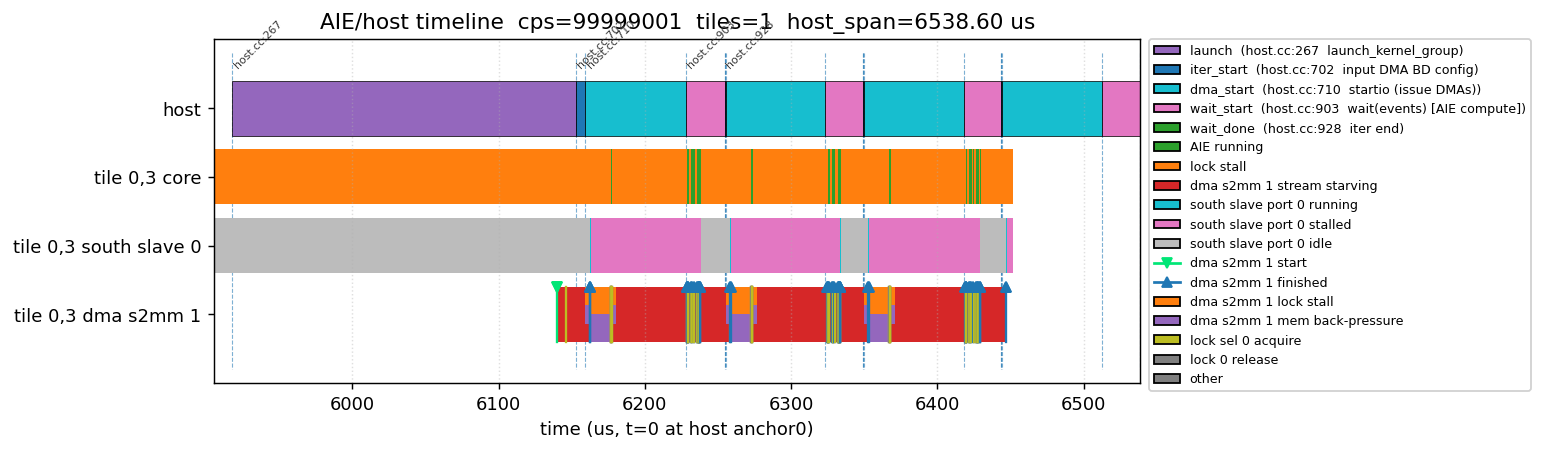
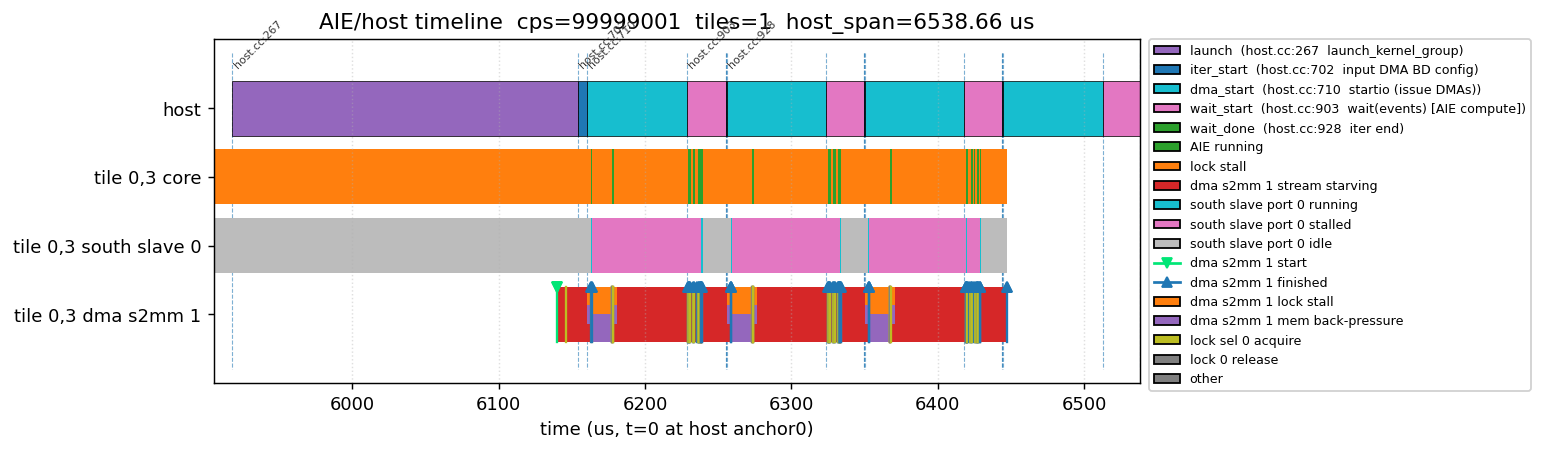
some change

diff --git a/src/mlir/mlirfront/tilinglinalg/pass/passdfscheduletoapi/passdfscheduletoapi.cpp b/src/mlir/mlirfront/tilinglinalg/pass/passdfscheduletoapi/passdfscheduletoapi.cpp
@@ -184,13 +184,6 @@ struct ConversionState {
     bool enableDebug = false;
     int runtimeDebugLevel = -1;
 
-    // Set from module attr routing.kernel_config_offload. When true, the host does
-    // NOT program core-tile DMA (BD, lock init, create_io, channel start); the AIE
-    // core self-configures its own DMA via raw MMIO from kernel.cc instead. The
-    // entire core-tile host DMA chain is removed in a pre-conversion walk so shim
-    // BDs and the kernel-group launch stay intact.
-    bool kernelConfigOffload = false;
-
     // Cached values for inner patterns (set before applying inner patterns)
     Value devInstRef;
     Value cacheableConst;
@@ -3182,129 +3175,6 @@ static void setupTypeConverter(TypeConverter &typeConverter, MLIRContext *ctx) {
 }
 
 //===----------------------------------------------------------------------===//
-// KERNELCONFIGOFFLOAD: remove the core-tile host DMA chain
-//===----------------------------------------------------------------------===//
-
-// Core tiles begin at this row on the AIE2PS partition (row 0 = shim,
-// row 1 = memtile). Only core-tile DMA is offloaded into kernel.cc; shim and
-// memtile BDs stay host-side. Matches passgroupregwrite.cpp::kCoreRowMin.
-static constexpr int kOffloadCoreRowMin = 2;
-
-// Trace a start_io -> its create_io -> DeclareTileOp and report the target row
-// (-1 if it cannot be resolved). Used to classify the DMA chain as core vs
-// shim/memtile.
-static int offloadStartIoRow(dfschedule::StartIoOp s) {
-    auto io = s.getIoHandle().getDefiningOp<dfschedule::ConfigCreateIoOp>();
-    if (!io)
-        return -1;
-    auto td = io.getTile().getDefiningOp<dfschedule::DeclareTileOp>();
-    if (!td)
-        return -1;
-    return td.getRow();
-}
-
-// True iff a start_io's create_io programs an S2MM (incoming) DMA. Only the
-// S2MM core chain is offloaded to kernel.cc; MM2S (outgoing) stays host-side
-// because it needs a per-(col,row) out-of-order BD id and no runtime core
-// tile-position intrinsic exists yet.
-static bool offloadStartIoIsS2MM(dfschedule::StartIoOp s) {
-    auto io = s.getIoHandle().getDefiningOp<dfschedule::ConfigCreateIoOp>();
-    return io && io.getDirection() == "S2MM";
-}
-
-// When #pragma KERNELCONFIGOFFLOAD is on, the AIE core self-programs its own
-// INCOMING (S2MM) DMA (BDs, lock inits, channel start) from kernel.cc via raw
-// MMIO. This removes ONLY the S2MM host-side dfschedule chain for CORE tiles
-// (row >= kOffloadCoreRowMin) BEFORE lowering, so that ConfigDmaBdInnerPattern
-// (which also emits the core-tile XAie_LockSetValue) never runs for them. The
-// MM2S (outgoing) core chain stays host-side (deferred: it needs a per-(col,row)
-// out-of-order BD id with no runtime core tile-position intrinsic yet). Shim
-// BDs, memtile BDs, MM2S core BDs, and the kernel-group launch are untouched.
-//
-// The per-core-tile S2MM chain is: config.dma_bd (ping+pong) -> config.create_io
-// -> schedule.start_io, whose event feeds a schedule.wait. Removal order:
-//   1. Collect only S2MM core-tile start_io (offloadStartIoIsS2MM).
-//   2. Rebuild each schedule.wait without those start_io events (keeps MM2S).
-//   3. Erase the S2MM start_io (+ any now-dead getbdid feeding its bd_id).
-//   4. Erase the S2MM create_io.
-//   5. Fixpoint-erase now-dead core-tile config.dma_bd; the use_empty() guard
-//      leaves MM2S ping/pong BDs (still fed to their kept MM2S create_io) intact.
-static void removeCoreTileHostDmaChain(ModuleOp moduleOp) {
-    // 1. Collect core-tile start_io ops and their event Values.
-    SmallVector<dfschedule::StartIoOp, 8> coreStarts;
-    llvm::DenseSet<Value> coreEvents;
-    moduleOp.walk([&](dfschedule::StartIoOp s) {
-        if (offloadStartIoRow(s) >= kOffloadCoreRowMin && offloadStartIoIsS2MM(s)) {
-            coreStarts.push_back(s);
-            coreEvents.insert(s.getResult());
-        }
-    });
-    if (coreStarts.empty())
-        return;
-
-    // 2. Rebuild schedule.wait ops without the core-tile events.
-    SmallVector<dfschedule::ScheduleWaitOp, 4> waits;
-    moduleOp.walk([&](dfschedule::ScheduleWaitOp w) { waits.push_back(w); });
-    for (auto w : waits) {
-        SmallVector<Value, 8> keep;
-        bool changed = false;
-        for (Value e : w.getEvents()) {
-            if (coreEvents.count(e)) {
-                changed = true;
-                continue;
-            }
-            keep.push_back(e);
-        }
-        if (changed) {
-            OpBuilder b(w);
-            b.create<dfschedule::ScheduleWaitOp>(w.getLoc(), keep);
-            w.erase();
-        }
-    }
-
-    // 3. Erase core-tile start_io (+ dead getbdid feeding its bd_id) and collect
-    //    the create_io / dma_bd producers for subsequent removal.
-    SmallVector<dfschedule::ConfigCreateIoOp, 8> coreIos;
-    for (auto s : coreStarts) {
-        Value bdIdV = s.getBdId();
-        if (auto io = s.getIoHandle().getDefiningOp<dfschedule::ConfigCreateIoOp>())
-            coreIos.push_back(io);
-        s.erase();
-        if (bdIdV)
-            if (auto *def = bdIdV.getDefiningOp())
-                if (isa<dfschedule::GetBdIdOp>(def) && def->use_empty())
-                    def->erase();
-    }
-
-    // 4. Erase core-tile create_io (its config.dma_bd producers go dead).
-    for (auto io : coreIos) {
-        if (io->use_empty())
-            io.erase();
-    }
-
-    // 5. Fixpoint-erase every core-tile config.dma_bd (the ping/pong linked_bd
-    //    chain unravels once create_io is gone). Collected via a single walk so
-    //    each op appears once (no dangling double-erase).
-    SmallVector<dfschedule::ConfigDmaBdOp, 16> coreBds;
-    moduleOp.walk([&](dfschedule::ConfigDmaBdOp bd) {
-        if (auto td = bd.getTile().getDefiningOp<dfschedule::DeclareTileOp>())
-            if (td.getRow() >= kOffloadCoreRowMin)
-                coreBds.push_back(bd);
-    });
-    bool progressed = true;
-    while (progressed) {
-        progressed = false;
-        for (auto &bd : coreBds) {
-            if (bd && bd->use_empty()) {
-                bd.erase();
-                bd = nullptr;
-                progressed = true;
-            }
-        }
-    }
-}
-
-//===----------------------------------------------------------------------===//
 // Pass Implementation - Two-Phase Conversion with Walk + Patterns
 //===----------------------------------------------------------------------===//
 
@@ -3336,16 +3206,9 @@ void DfscheduleToApiPass::runOnOperation() {
                      << " folded lock-init triples (control-packet grouped)\n";
     }
 
-    // KERNELCONFIGOFFLOAD: when on, the AIE core self-programs its own DMA from
-    // kernel.cc (raw MMIO). Remove the core-tile host DMA chain (BD, lock init,
-    // create_io, channel start) BEFORE lowering so those host calls are never
-    // emitted; shim/memtile BDs and the kernel-group launch stay host-side.
-    if (auto a = moduleOp->getAttrOfType<IntegerAttr>("routing.kernel_config_offload"))
-        state.kernelConfigOffload = a.getInt() != 0;
-    if (state.kernelConfigOffload) {
-        llvm::errs() << "[Pass] KERNELCONFIGOFFLOAD on: removing core-tile host DMA chain\n";
-        removeCoreTileHostDmaChain(moduleOp);
-    }
+    // KERNELCONFIGOFFLOAD: the S2MM core-tile host DMA chain is now suppressed at
+    // generation time (BlueprintToSchedulePass::emitCoreBufferDma skips it when
+    // routing.kernel_config_offload is set), so no host-side removal is needed here.
 
     // Precompute the control-fabric C variable name for each ctrl_plan_init and
     // for the group_reg_writes that consume it, so their lowering order is

diff --git a/src/mlir/mlirfront/tilinglinalg/pass/passblueprinttoschedule/helper/flowtransfer_kernel.cpp b/src/mlir/mlirfront/tilinglinalg/pass/passblueprinttoschedule/helper/flowtransfer_kernel.cpp
@@ -527,30 +527,44 @@ LogicalResult FlowTransferConversion::emitCoreBufferDma(FlowLoweringCtx &c, Core
                         t.coreOooBdId = c.shimPerTileBdIds[idx];
                 }
 
-                if (t.ppDepth == 1) {
-                    emitCoreSingleBufferBd(c, t);
-                } else {
-                    emitCorePingPongBd(c, t);
-                }
+                // KERNELCONFIGOFFLOAD: when on, the AIE core self-programs its own
+                // incoming (S2MM) DMA — BD chain, lock inits, channel start — from
+                // kernel.cc via raw MMIO (passdfscheduletokernelapi emitS2mmConfigBlock).
+                // So the host must NOT emit the S2MM core-tile DMA chain. Skip the BD +
+                // create_io + deferred start_io for INPUT (S2MM) core tiles (row >=
+                // kOffloadCoreRowMin, excluding memtiles). MM2S (output) core BDs stay
+                // host-side — deferred, no core-position intrinsic yet. Lock inits ride
+                // on the ConfigDmaBdOp, so skipping the BD also drops them.
+                constexpr int64_t kOffloadCoreRowMin = 2;
+                bool offloadSkipS2mm =
+                    passState && passState->kernelConfigOffload && c.isInput && t.row >= kOffloadCoreRowMin;
+                if (!offloadSkipS2mm) {
+                    if (t.ppDepth == 1) {
+                        emitCoreSingleBufferBd(c, t);
+                    } else {
+                        emitCorePingPongBd(c, t);
+                    }
 
-                // Create IO handle for core tile
-                auto coreCreateIoOp = rewriter.create<dfschedule::ConfigCreateIoOp>(
-                    loc, dfschedule::IoHandleType::get(rewriter.getContext()), t.firstCoreBdHandle,
-                    t.coreTileOp.getTile(), rewriter.getI32IntegerAttr(c.coreChannel),
-                    rewriter.getStringAttr(c.coreDmaDirection), rewriter.getStringAttr(c.coreIoOperation),
-                    rewriter.getBoolAttr(false)); // enable_out_of_order=false for core tiles
-                auto coreBdIdOp =
-                    rewriter.create<dfschedule::GetBdIdOp>(loc, rewriter.getI32Type(), t.coreTileOp.getTile());
-                // Defer core StartIoOp until after ELF is loaded (LoadKernelGroup)
-                // to prevent BSS initialization from overwriting DMA data.
-                // Core tiles use ping-pong BD chaining (next_bd links ping↔pong),
-                // so the DMA hardware automatically re-arms via the chain.
-                // repeat=1 is sufficient; the BD chain does the work.
-                int32_t coreRepeat = 1;
-                llvm::errs() << "[DeferredStartIo] PUSH deferredCoreStartIos flowIdx=" << c.flowIndex
-                             << " tileIdx=" << c.tileIndex << " total=" << (c.deferredCoreStartIos.size() + 1) << "\n";
-                c.deferredCoreStartIos.push_back(
-                    {coreCreateIoOp.getIoHandle(), coreBdIdOp.getBdId(), c.flowIndex, coreRepeat});
+                    // Create IO handle for core tile
+                    auto coreCreateIoOp = rewriter.create<dfschedule::ConfigCreateIoOp>(
+                        loc, dfschedule::IoHandleType::get(rewriter.getContext()), t.firstCoreBdHandle,
+                        t.coreTileOp.getTile(), rewriter.getI32IntegerAttr(c.coreChannel),
+                        rewriter.getStringAttr(c.coreDmaDirection), rewriter.getStringAttr(c.coreIoOperation),
+                        rewriter.getBoolAttr(false)); // enable_out_of_order=false for core tiles
+                    auto coreBdIdOp =
+                        rewriter.create<dfschedule::GetBdIdOp>(loc, rewriter.getI32Type(), t.coreTileOp.getTile());
+                    // Defer core StartIoOp until after ELF is loaded (LoadKernelGroup)
+                    // to prevent BSS initialization from overwriting DMA data.
+                    // Core tiles use ping-pong BD chaining (next_bd links ping↔pong),
+                    // so the DMA hardware automatically re-arms via the chain.
+                    // repeat=1 is sufficient; the BD chain does the work.
+                    int32_t coreRepeat = 1;
+                    llvm::errs() << "[DeferredStartIo] PUSH deferredCoreStartIos flowIdx=" << c.flowIndex
+                                 << " tileIdx=" << c.tileIndex << " total=" << (c.deferredCoreStartIos.size() + 1)
+                                 << "\n";
+                    c.deferredCoreStartIos.push_back(
+                        {coreCreateIoOp.getIoHandle(), coreBdIdOp.getBdId(), c.flowIndex, coreRepeat});
+                }
             } // end if (passState && ...)
         }
     }

diff --git a/src/mlir/mlirfront/tilinglinalg/pass/passblueprinttoschedule/passblueprinttoschedule.cpp b/src/mlir/mlirfront/tilinglinalg/pass/passblueprinttoschedule/passblueprinttoschedule.cpp
@@ -274,6 +274,11 @@ void BlueprintToSchedulePass::runOnOperation() {
                 auto attr = moduleOp->getAttrOfType<IntegerAttr>(name);
                 return attr ? attr.getInt() : 0;
             };
+            // KERNELCONFIGOFFLOAD: when the core self-programs its incoming S2MM
+            // DMA from kernel.cc, emitCoreBufferDma must skip the host S2MM core
+            // DMA chain (see BlueprintPassState::kernelConfigOffload).
+            passState->kernelConfigOffload = getI64("routing.kernel_config_offload") != 0;
+
             // Flat module attrs are the fallback source.
             passState->tileM = getI64("routing.tile_m");
             passState->tileRows = getI64("routing.tile_rows");

diff --git a/src/mlir/mlirfront/tilinglinalg/pass/passblueprinttoschedule/helper/flowtransfer_internal.h b/src/mlir/mlirfront/tilinglinalg/pass/passblueprinttoschedule/helper/flowtransfer_internal.h
@@ -74,6 +74,11 @@ struct BlueprintPassState {
     // partitiontensor op during conversion. Empty for conv, mirroring the old
     // !isFullConnectAuto Match/1/1 behavior.
     routing::GemmTilingScalars tilingScalars;
+    // KERNELCONFIGOFFLOAD (routing.kernel_config_offload): when set, the AIE core
+    // self-programs its own incoming (S2MM) DMA from kernel.cc via raw MMIO, so the
+    // host must NOT emit the S2MM core-tile DMA chain. emitCoreBufferDma reads this
+    // to skip the S2MM BD + create_io + start_io for core tiles.
+    bool kernelConfigOffload = false;
 };
 
 // === Tiling Classification ===
